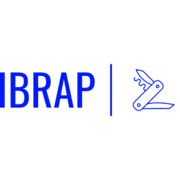
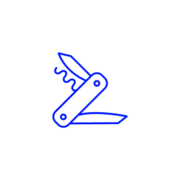
update

Changed region(s): [[0.0556, 0.2778, 0.7222, 0.7222], [0.7222, 0.3611, 0.9722, 0.6389], [0.0, 0.3889, 0.0278, 0.6111]]

diff --git a/docs/reference/Read10X_output.html b/docs/reference/Read10X_output.html
@@ -170,9 +170,9 @@
 
     <h2 class="hasAnchor" id="examples"><a class="anchor" href="#examples"></a>Examples</h2>
     <div class="ref-examples sourceCode"><pre class='sourceCode r'><code><span class='r-in'><span class='fu'>Read10X_output</span><span class='op'>(</span>directory <span class='op'>=</span> <span class='st'>'path/to/folder/'</span>, matrix.file <span class='op'>=</span> <span class='st'>'matrix.mtx'</span>, genes.file <span class='op'>=</span> <span class='st'>'genes.tsv'</span>, barcodes.file <span class='op'>=</span> <span class='st'>'barcodes.tsv'</span>, make.feat.unique <span class='op'>=</span> <span class='cn'>TRUE</span><span class='op'>)</span></span>
-<span class='r-out co'><span class='r-pr'>#&gt;</span> <span style='color: #00BBBB;'>2021-08-11 19:26:23: expected file: matrix.mtx</span></span>
-<span class='r-out co'><span class='r-pr'>#&gt;</span> <span style='color: #00BBBB;'>2021-08-11 19:26:23: expected file: genes.tsv</span></span>
-<span class='r-out co'><span class='r-pr'>#&gt;</span> <span style='color: #00BBBB;'>2021-08-11 19:26:23: expected file: barcodes.tsv</span></span>
+<span class='r-out co'><span class='r-pr'>#&gt;</span> <span style='color: #00BBBB;'>2021-08-11 19:43:57: expected file: matrix.mtx</span></span>
+<span class='r-out co'><span class='r-pr'>#&gt;</span> <span style='color: #00BBBB;'>2021-08-11 19:43:57: expected file: genes.tsv</span></span>
+<span class='r-out co'><span class='r-pr'>#&gt;</span> <span style='color: #00BBBB;'>2021-08-11 19:43:57: expected file: barcodes.tsv</span></span>
 <span class='r-out co'><span class='r-pr'>#&gt;</span> </span>
 <span class='r-wrn co'><span class='r-pr'>#&gt;</span> <span class='warning'>Warning: </span>cannot open file 'path/to/folder//genes.tsv': No such file or directory</span>
 <span class='r-err co'><span class='r-pr'>#&gt;</span> <span class='error'>Error in file(file, "rt")</span> cannot open the connection</span>

diff --git a/docs/index.html b/docs/index.html
@@ -82,7 +82,7 @@
       </header><div class="row">
   <div class="contents col-md-9">
 
-<p><img src="https://github.com/connorhknight/IBRAP/blob/main/man/figures/logo_small.png" width="300" height="100"></p>
+<p>knitr::include_graphics(path = )</p>
 <hr>
 <p><strong>I</strong>ntegrated <strong>B</strong>enchmarking single-cell <strong>R</strong>NA-sequencing <strong>A</strong>utomated <strong>P</strong>ipeline endeavours to make optimal bioinformatic pipelines preconstructed into an ease-of-use tool, alongside providing gold-standard metrics to assess their effectiveness.</p>
 <p>IBRAP vignettes, function references and more can be found on the following link:</p>

diff --git a/README.md b/README.md
@@ -1,4 +1,4 @@
-<img src="https://github.com/connorhknight/IBRAP/blob/main/logo_small.png" width="300" height="100">
+knitr::include_graphics(path = )
 
 ---------------------------------------------------------------------------------------------------------------------------------------------
 
